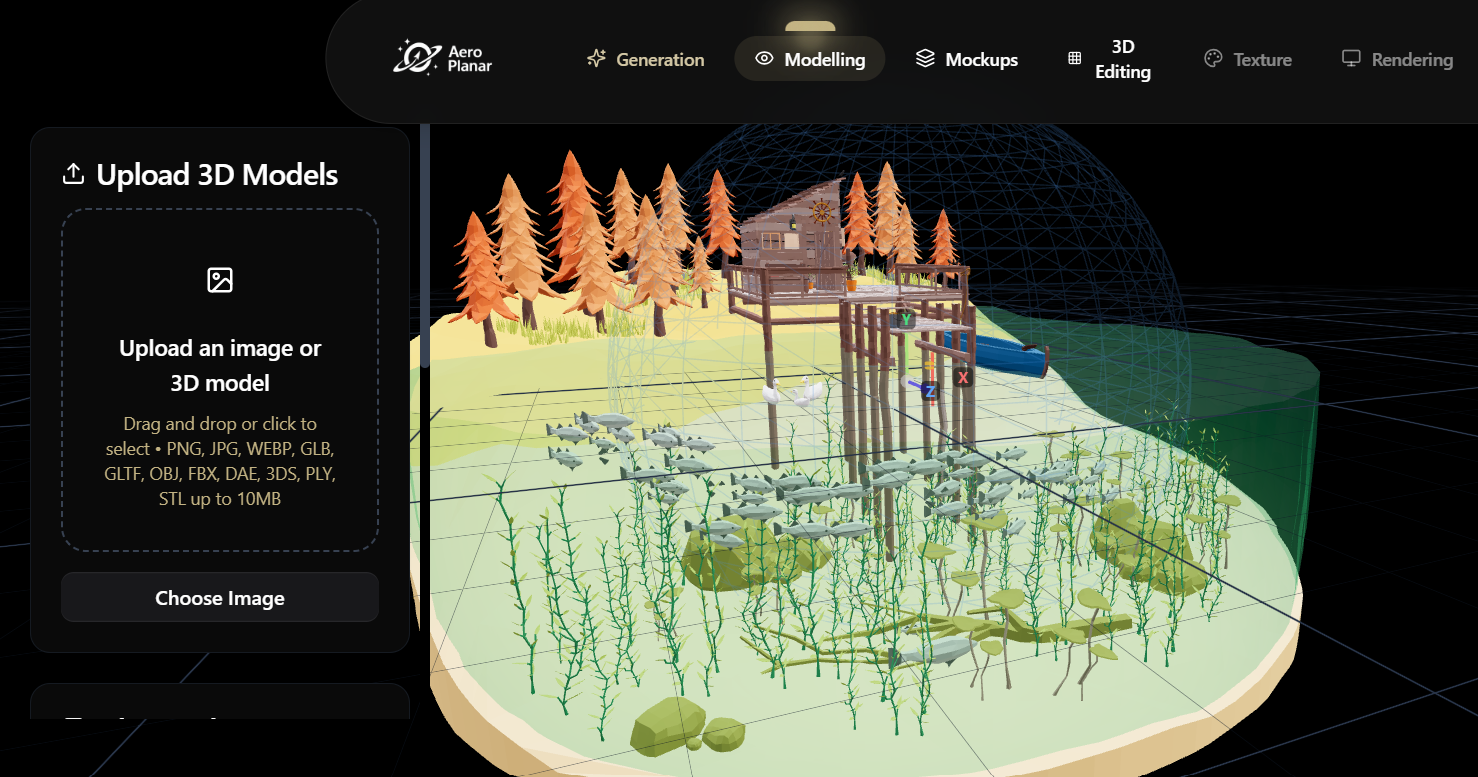
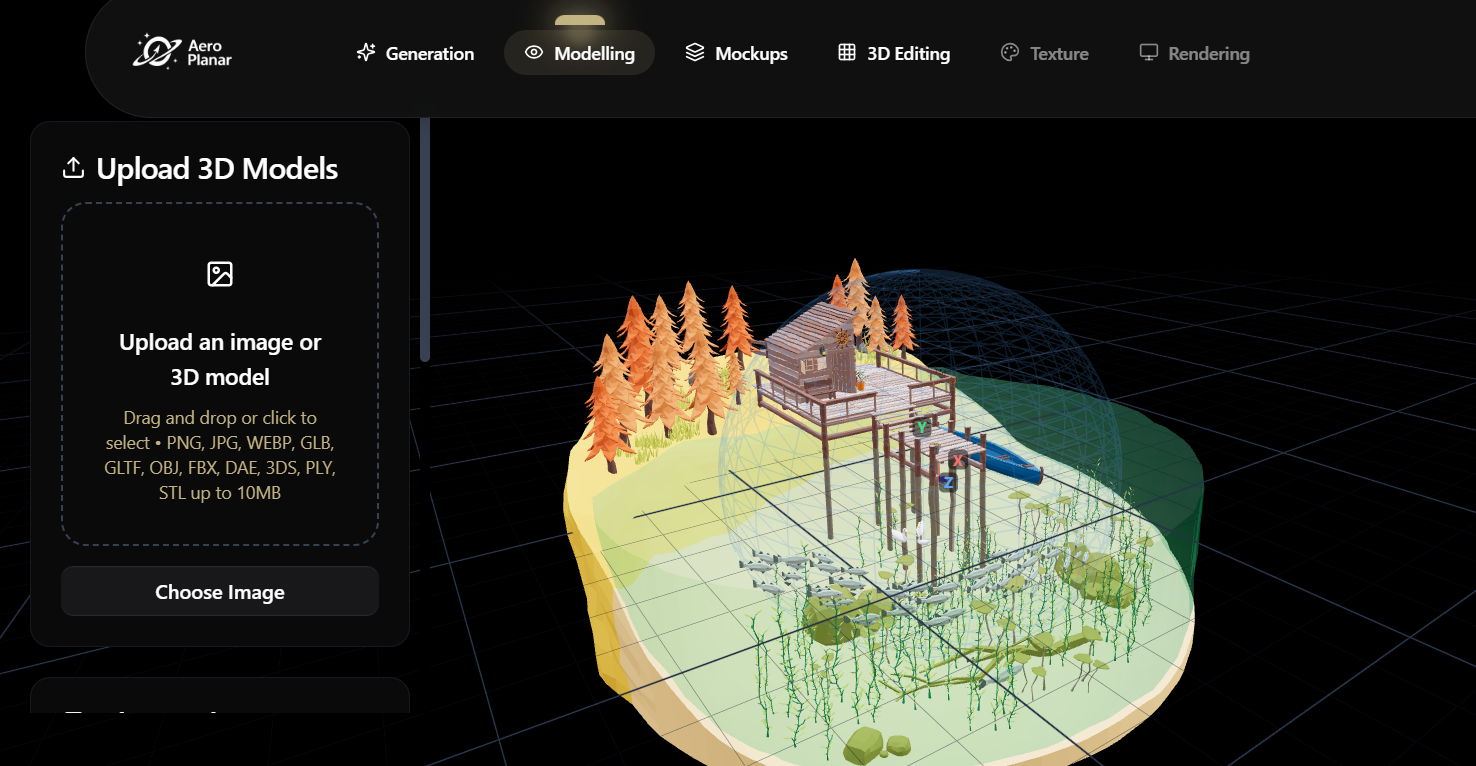
fixed problems nav bar header

diff --git a/next-app/app/studio/page.tsx b/next-app/app/studio/page.tsx
@@ -82,7 +82,7 @@ export default function Home() {
 	const [showMockupsSidebars, setShowMockupsSidebars] = useState(false);
 	const [searchQuery, setSearchQuery] = useState("");
 	const [user, setUser] = useState<User | null>(null);
-	const [loading, setLoading] = useState(true);
+	const [authLoading, setAuthLoading] = useState(true);
 	const supabase = createClient();
 	const router = useRouter();
 
@@ -97,7 +97,7 @@ export default function Home() {
 		const getUser = async () => {
 			const { data: { user } } = await supabase.auth.getUser();
 			setUser(user);
-			setLoading(false);
+			setAuthLoading(false);
 		};
 
 		getUser();
@@ -1995,12 +1995,13 @@ export default function Home() {
 			<div className="relative z-10 pointer-events-none">
 				{/* Header */}
 				<header className="fixed left-1/2 -translate-x-1/2 z-50 top-1 pointer-events-none">
-					<div className="flex items-center backdrop-blur-lg shadow-lg transition-all duration-500 ease-in-out pointer-events-auto gap-4 py-3 px-8 rounded-full bg-background/90 border border-border/80 min-w-[1000px]">
+					<div className="flex items-center backdrop-blur-lg shadow-lg transition-all duration-500 ease-in-out pointer-events-auto gap-4 py-3 px-8 rounded-full bg-background/90 border border-border/80 min-w-[1400px]">
 						<Link href="/" className="cursor-pointer">
 							<img
 								src="/logo.png"
 								alt="AeroPlanar Logo"
 								className="h-20 w-32 object-contain hover:scale-105 transition-all duration-300 mr-6"
+								style={{ transform: 'scale(1) translateX(-20px)' }}
 							/>
 						</Link>
 						<div className="flex items-center transition-all duration-500 gap-2">
@@ -2209,6 +2210,12 @@ export default function Home() {
 									
 									{/* Dropdown Menu */}
 									<div className="absolute right-0 top-full mt-2 w-48 py-2 bg-[#080c0c]/95 backdrop-blur-lg rounded-lg border border-gray-800/50 shadow-xl opacity-0 invisible group-hover:opacity-100 group-hover:visible transition-all duration-200 z-50">
+										<div className="px-4 py-2 border-b border-gray-800/50">
+											<div className="flex items-center gap-2 text-sm">
+												<span className="text-[#c3b383]">Tokens:</span>
+												<span className="text-white font-medium">10</span>
+											</div>
+										</div>
 										<Link 
 											href="/account" 
 											className="flex items-center gap-2 px-4 py-2 text-sm text-white hover:bg-white/10 transition-colors"
